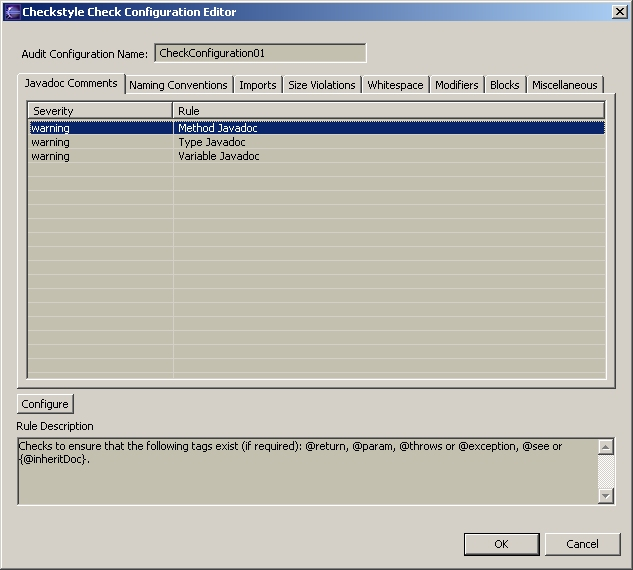
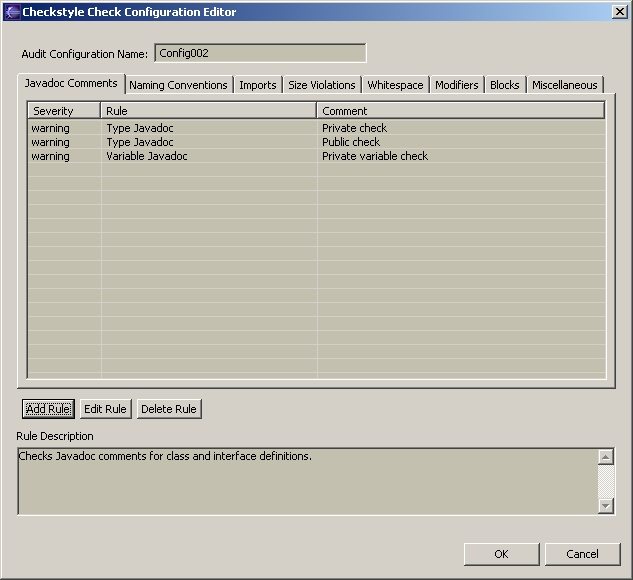
Documentation updates based on change to allow multiple check rule instances in the same check configuration.

diff --git a/CheckstylePlugin/doc/configuring.html b/CheckstylePlugin/doc/configuring.html
@@ -18,10 +18,10 @@ Checkstyle Plug-in</b></font></p>
 <p>To create a new Check Configuration  click the Add button. To edit an existing Check Configuration select the configuration and click the Edit button, or double-click on the desired configuration. When creating a new Check Configuration or editing an existing one you will see the Check Configuration Editor shown below.</p>
 <p align="center"><img border="0" src="images/check_config_editor.jpg" width="633"
 	height="570"></p>
-<p>Give the Check Configuration a unique name. Next, review the configuration of each of the check rules. To edit the configuration of a rule first select the rule and then click the Configure button, or just double click on the desired rule. When editing a rule you will see the Rule Configuration Editor shown below.</p>
+<p>Give the Check Configuration a unique name. Next,  add the check rules you want based on the items you are looking for in your code. To add a check rule select the Add button. To edit an existing rule select the Edit button or double click on the rule. When editing a rule you will see the Rule Configuration Editor shown below.</p>
 <p align="center"><img border="0" src="images/rule_config_editor.jpg" width="403"
 	height="255"></p>
-<p>The Rule Configuration Editor will look a bit different for each rule, based on the rule's configuration properties. Not all rules have specific properties and only the severity level is configurable. Other rules may have several properties that can be configured by typing values, selecting from drop down menus, or selecting multiple items from a collection of check boxes. The appropriate set of configuration properties will be presented for each rule.</p>
+<p>Since its possible to have multiple instances of the same rule within a single check configuration each rule instance can be given a short comment to help you remimber what each instance does. The Rule Configuration Editor will look a bit different for each rule, based on the rule's configuration properties. Not all rules have specific properties and only the severity level is configurable. Other rules may have several properties that can be configured by typing values, selecting from drop down menus, or selecting multiple items from a collection of check boxes. The appropriate set of configuration properties will be presented for each rule.</p>
 <p>Detailed information on the configuration options for each rule can be found in the following section:</p>
 <ul>
 	<li><a href="csdocs/config_javadoc.html">Javadoc Comments</a></li>
